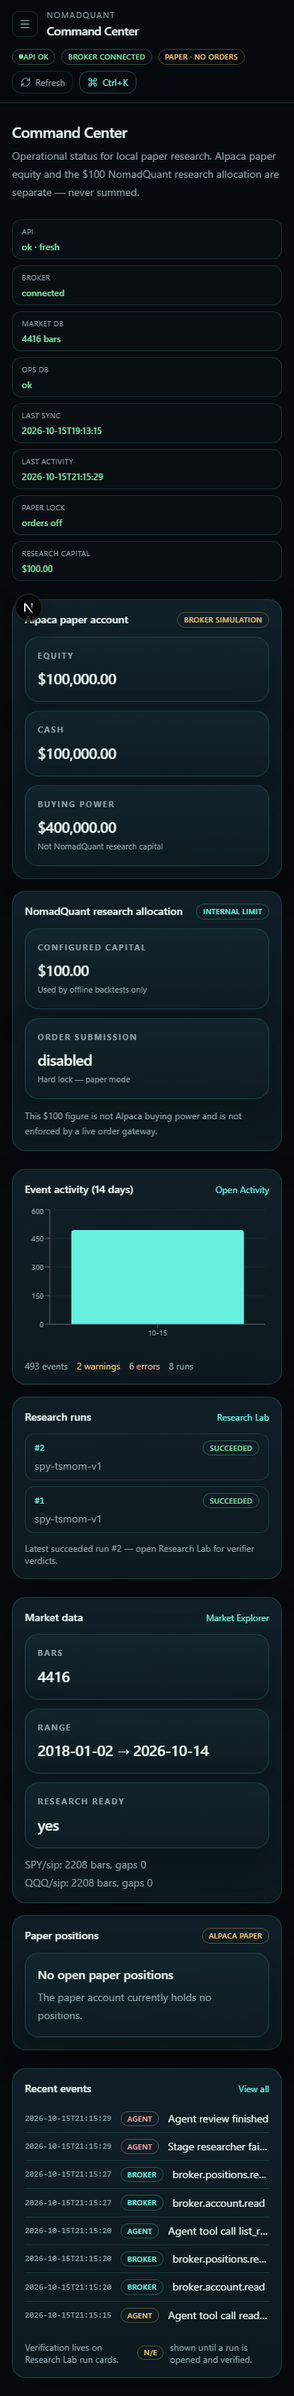
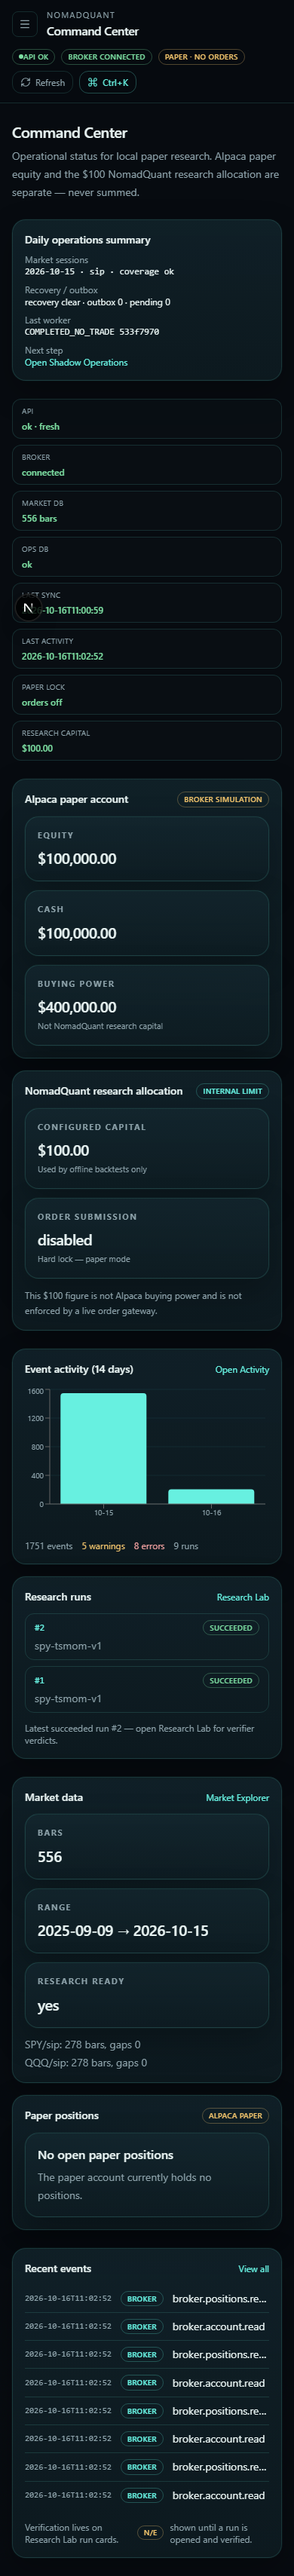
Show the daily operations summary from stored shadow and market records.
Command Center and Shadow Operations now report coverage, the last worker run, and the exact local commands for sync or recovery, with the workstation evidence recorded as observed.

Changed region(s): [[0.0308, 0.0, 0.9538, 0.9965], [0.5538, 0.0, 0.8, 0.0311]]

diff --git a/apps/web/components/Overview.tsx b/apps/web/components/Overview.tsx
@@ -1,6 +1,7 @@
 "use client";
 
 import Link from "next/link";
+import { useQuery } from "@tanstack/react-query";
 import {
   Bar,
   BarChart,
@@ -20,7 +21,7 @@ import {
   Skeleton,
   VerificationBadge,
 } from "@/components/ui";
-import { formatUsd } from "@/lib/api";
+import { formatUsd, loadShadowOps } from "@/lib/api";
 import { connectionState } from "@/lib/connection";
 import {
   useEventHistogramQuery,
@@ -38,6 +39,11 @@ export function Overview() {
   const activity = useObservabilityOverview();
   const researchRuns = useResearchRunsList();
   const histogram = useEventHistogramQuery("?bucket=day");
+  const shadowOps = useQuery({
+    queryKey: ["shadow-ops-summary"],
+    queryFn: loadShadowOps,
+    refetchInterval: 30_000,
+  });
   const apiState = connectionState({
     isLoading: health.isLoading,
     isError: health.isError,
@@ -91,6 +97,52 @@ export function Overview() {
         title="Command Center"
         note="Operational status for local paper research. Alpaca paper equity and the $100 NomadQuant research allocation are separate — never summed."
       />
+
+      <Panel>
+        <h2 className="mb-2 text-sm font-semibold">Daily operations summary</h2>
+        {shadowOps.isLoading ? <Skeleton lines={3} /> : null}
+        {shadowOps.isError ? (
+          <EmptyState
+            title="Shadow ops unavailable"
+            note="Start the local API. Data check: uv run nomadquant-shadow data-check --feed sip"
+          />
+        ) : null}
+        {shadowOps.data ? (
+          <dl className="grid gap-2 text-xs sm:grid-cols-2">
+            <div>
+              <dt className="text-[var(--muted)]">Market sessions</dt>
+              <dd className="font-mono">
+                {shadowOps.data.market.latest_session ?? "—"} · {shadowOps.data.market.feed ?? "sip"} ·{" "}
+                {shadowOps.data.market.suitable_for_research ? "coverage ok" : "INCOMPLETE"}
+              </dd>
+            </div>
+            <div>
+              <dt className="text-[var(--muted)]">Recovery / outbox</dt>
+              <dd>
+                recovery {shadowOps.data.recovery_required ? "required" : "clear"} · outbox{" "}
+                {shadowOps.data.outbox_backlog ?? "—"} · pending {shadowOps.data.pending_intent_count ?? 0}
+              </dd>
+            </div>
+            <div>
+              <dt className="text-[var(--muted)]">Last worker</dt>
+              <dd className="font-mono">
+                {shadowOps.data.last_worker_run?.worker_status ?? "none"}{" "}
+                {shadowOps.data.last_worker_run?.run_id
+                  ? String(shadowOps.data.last_worker_run.run_id).slice(0, 8)
+                  : ""}
+              </dd>
+            </div>
+            <div>
+              <dt className="text-[var(--muted)]">Next step</dt>
+              <dd>
+                <Link href="/shadow" className="text-[var(--cyan)]">
+                  Open Shadow Operations
+                </Link>
+              </dd>
+            </div>
+          </dl>
+        ) : null}
+      </Panel>
 
       <div className="grid gap-2 sm:grid-cols-2 xl:grid-cols-4 2xl:grid-cols-8">
         <StatusChip

diff --git a/apps/web/components/ShadowPortfolio.tsx b/apps/web/components/ShadowPortfolio.tsx
@@ -279,10 +279,55 @@ export function ShadowPortfolio() {
                 </dd>
               </div>
             ) : null}
-            <p className="mt-1 text-[10px] text-[var(--muted)]">
-              From /api/shadow/ops when reported. Run{" "}
-              <code className="text-[var(--cyan)]">nomadquant-shadow worker</code> locally; never broker orders.
-            </p>
+            {ops.data.data_health ? (
+              <div className="flex justify-between gap-4">
+                <dt className="text-[var(--muted)]">Data health</dt>
+                <dd>
+                  {ops.data.data_health.status ?? "—"} · {ops.data.data_health.feed ?? "sip"} · end{" "}
+                  {ops.data.data_health.eligible_end ?? "—"}
+                </dd>
+              </div>
+            ) : null}
+            {ops.data.data_health?.symbols
+              ? Object.entries(ops.data.data_health.symbols).map(([symbol, row]) => (
+                  <div key={symbol} className="flex justify-between gap-4">
+                    <dt className="text-[var(--muted)]">{symbol}</dt>
+                    <dd>
+                      latest {row.latest_stored ?? "—"} · missing {row.missing_count ?? "—"}
+                    </dd>
+                  </div>
+                ))
+              : null}
+            {(ops.data.worker_runs?.items?.length ?? 0) > 0 ? (
+              <div>
+                <dt className="text-[var(--muted)]">Recent worker runs</dt>
+                <dd className="mt-1 space-y-1">
+                  {ops.data.worker_runs?.items?.slice(0, 5).map((run) => (
+                    <div key={run.run_id ?? run.started_at}>
+                      {(run.run_id ?? "").slice(0, 8)} {run.worker_status ?? "—"} {run.mode ?? ""}
+                    </div>
+                  ))}
+                </dd>
+              </div>
+            ) : null}
+            <div className="mt-2 space-y-1 text-[10px] text-[var(--muted)]">
+              <p>Commands are local and opt-in. This page does not place broker orders.</p>
+              {ops.data.data_health?.status === "WAITING_FOR_DATA" ? (
+                <p>
+                  Sync data: <code className="text-[var(--cyan)]">uv run nomadquant-shadow data-sync --feed sip</code>
+                </p>
+              ) : null}
+              {(ops.data.pending_intent_count ?? 0) > 0 ? (
+                <p>
+                  Pending observation: <code className="text-[var(--cyan)]">uv run nomadquant-shadow worker --mode inspect</code>
+                </p>
+              ) : null}
+              {ops.data.recovery_required ? (
+                <p>
+                  Recovery: <code className="text-[var(--cyan)]">uv run nomadquant-shadow recover</code>
+                </p>
+              ) : null}
+            </div>
           </dl>
         ) : null}
       </Panel>

diff --git a/apps/web/lib/api.ts b/apps/web/lib/api.ts
@@ -1653,6 +1653,7 @@ export type ShadowOpsAlert = {
 };
 
 export type ShadowWorkerRunSummary = {
+  run_id?: string;
   worker_status?: string;
   mode?: string;
   started_at?: string;
@@ -1682,6 +1683,24 @@ export type ShadowOps = {
   recovery_required?: boolean;
   outbox_backlog?: number | null;
   last_worker_run?: ShadowWorkerRunSummary | null;
+  worker_runs?: {
+    items: ShadowWorkerRunSummary[];
+    total: number;
+    corrupt: string[];
+  };
+  data_health?: {
+    status?: string;
+    feed?: string;
+    eligible_end?: string | null;
+    symbols?: Record<
+      string,
+      {
+        latest_stored?: string | null;
+        missing_count?: number;
+        warmup_complete?: boolean;
+      }
+    >;
+  } | null;
   alerts: ShadowOpsAlert[];
   last_cycle: ShadowCycle | null;
   cycle_count: number;

diff --git a/src/nomadquant/api/shadow_routes.py b/src/nomadquant/api/shadow_routes.py
@@ -11,7 +11,12 @@ from nomadquant.shadow.marks import value_forward_portfolio
 from nomadquant.shadow.preflight import run_preflight, run_reconcile
 from nomadquant.shadow.store import ShadowStore
 from nomadquant.shadow.valuation import PortfolioValuation
-from nomadquant.shadow.worker import outbox_backlog_count, read_last_worker_run, recovery_required
+from nomadquant.shadow.worker import (
+    list_worker_runs,
+    outbox_backlog_count,
+    read_last_worker_run,
+    recovery_required,
+)
 
 router = APIRouter(prefix="/api/shadow")
 
@@ -118,7 +123,9 @@ def shadow_ops(request: Request) -> dict[str, Any]:
             from nomadquant.marketdata.store import MarketStore
             from nomadquant.shadow.cycle import LOOKBACK, SKIP
 
-            market = MarketStore(market_path)
+            market = MarketStore.open_readonly(market_path)
+            if market is None:
+                raise FileNotFoundError(market_path)
             sessions = (
                 sorted(market.sessions("SPY", "sip")) if market.has_symbol("SPY", "sip") else []
             )
@@ -231,6 +238,14 @@ def shadow_ops(request: Request) -> dict[str, Any]:
 
     log_dir = Path(settings.shadow_path).parent / "shadow_logs"
     last_worker = read_last_worker_run(log_dir)
+    worker_history = list_worker_runs(log_dir, limit=8)
+    data_health: dict[str, Any] | None = None
+    try:
+        from nomadquant.shadow.data_ops import data_check
+
+        data_health = data_check(settings, feed="sip")
+    except Exception as exc:  # noqa: BLE001
+        data_health = {"status": "ERROR", "reason": str(exc)[:300]}
 
     return {
         "market": market_info,
@@ -239,6 +254,8 @@ def shadow_ops(request: Request) -> dict[str, Any]:
         "recovery_required": recovery_flag,
         "outbox_backlog": outbox_backlog,
         "last_worker_run": last_worker,
+        "worker_runs": worker_history,
+        "data_health": data_health,
         "alerts": alerts,
         "last_cycle": last_cycle,
         "cycle_count": cycle_count,

diff --git a/docs/PAPER_EXECUTION_READINESS.md b/docs/PAPER_EXECUTION_READINESS.md
@@ -105,6 +105,28 @@ Before any Alpaca paper milestone:
 4. Manual single-order submit with human confirmation.  
 5. Reconciliation against Alpaca paper account (still ≠ $100 internal book).
 
+## Prompt 14 local evidence (2026-10-16, this workstation)
+
+These are observed results, not a completed forward fill.
+
+| Check | Result |
+|-------|--------|
+| Feed | SIP only. `has_symbol(SPY, iex)` is false. No automatic SIP→IEX switch. |
+| Coverage before sync | SPY and QQQ each had 2208 sessions through 2026-10-14. Missing completed session: 2026-10-15. |
+| `data-sync --feed sip` | `success`. Inserted 2 rows (SPY and QQQ for 2026-10-15). Unchanged 554. Conflicts 0. Early-close notes for 2025-11-28 and 2025-12-24. |
+| Coverage after sync | 2209 sessions each. Latest stored 2026-10-15. Warm-up complete for the requested window 2025-09-09..2026-10-15. |
+| Retrieval provenance | SPY 2026-10-15 open 766.25 close 771.79, `first_retrieved_at` 2026-10-16T11:00:59Z. QQQ open 718.55 close 728, same retrieval timestamp. Modeled availability remains 2026-10-15T20:30:00Z. This is when the computer stored the daily bar, not a real-time open quote. |
+| Preflight | `NO_REBALANCE_DUE`. Cash 100, ledger version 1, no reservations. Fill session 2026-10-16 open is missing because that session is not finished. |
+| Reconcile before processing | `ok=true`. Equity 100. |
+| Worker inspect | run `19aee933970d44658a98287822c905a3`, status `WAITING_FOR_SESSION`. No cycle. |
+| Worker dry-run | run `533f7970f2af44efbef94c2587a7d328`, status `COMPLETED_NO_TRADE`. Ledger stayed version 1, cash 100, holdings empty, reserved 0. |
+| Pending / outbox | 0 pending intents, outbox backlog 0. |
+| Shadow-apply | Not run. |
+| Task Scheduler install | Not run. |
+| Alpaca orders | None. Sync used the historical bars client only. |
+| Ollama | Models are installed locally. `ollama ps` showed no running model. Daily worker did not call Ollama. |
+| Real-time executable evidence | No. The new bars are delayed daily OHLC. |
+
 ## Go / no-go checklist
 
 | Item | Go? |
@@ -113,7 +135,7 @@ Before any Alpaca paper milestone:
 | Forward ≠ retrospective ledger | Yes |
 | OCC + reservation recovery | Yes |
 | No broker order paths in API | Yes |
-| Real-time open provenance | **No** |
+| Real-time open provenance | **No** — stored daily bars record `first_retrieved_at`; fills stay `delayed_hypothetical_daily_open` |
 | Alpaca fractional confirmation | **No** |
 | Explicit paper-order authorization | **No** |
 | Autonomous execution | **Forbidden** |

diff --git a/docs/SHADOW_SCHEDULING.md b/docs/SHADOW_SCHEDULING.md
@@ -7,13 +7,14 @@ Windows Task Scheduler support is **opt-in**. Nothing is installed automatically
 ## Commands
 
 ```powershell
-# Install weekday task at local time equivalent to 17:45 America/New_York
+# Opt-in install. Repeats every 30 minutes. shadow-daily.ps1 decides eligibility
+# from America/New_York plus the NYSE calendar, so host DST does not freeze 17:45.
 .\scripts\shadow-schedule.ps1 -Action install
 
 # Opt-in simulated apply (still no broker orders)
 .\scripts\shadow-schedule.ps1 -Action install -ShadowApply
 
-# Status (shows next 17:45 ET → local mapping)
+# Status (next 17:45 America/New_York, shown in UTC as well)
 .\scripts\shadow-schedule.ps1 -Action status
 
 # Disable / remove
@@ -32,6 +33,8 @@ Windows Task Scheduler support is **opt-in**. Nothing is installed automatically
 CLI equivalents:
 
 ```powershell
+uv run nomadquant-shadow data-check --feed sip
+uv run nomadquant-shadow data-sync --feed sip   # explicit; not run by the scheduler
 uv run nomadquant-shadow worker --mode inspect
 uv run nomadquant-shadow worker --mode dry-run
 uv run nomadquant-shadow worker --mode shadow-apply
@@ -45,4 +48,6 @@ uv run nomadquant-shadow recover   # explicit reservation recovery + outbox
 - Worker lock file: `data/shadow_worker.lock` (stale locks cleared after 2h).
 - Outcome JSON: `data/shadow_logs/worker-*.json`; text logs: `data/shadow_logs/shadow-*.log`.
 - Exit codes: `0` ok/waiting/no_trade, `2` recovery_required (run `recover` before apply), `1` error.
-- NYSE calendar / holidays enforced in Python preflight and cycle.
+- NYSE calendar / holidays enforced in Python preflight, cycle, and `ny_daily_gate`.
+- A missed 17:45 stays due until that session is processed. Weekends and holidays catch up the previous session; they do not invent a new one.
+- Authenticated `data-sync` is a separate command. The scheduled task does not download bars or call Ollama.
